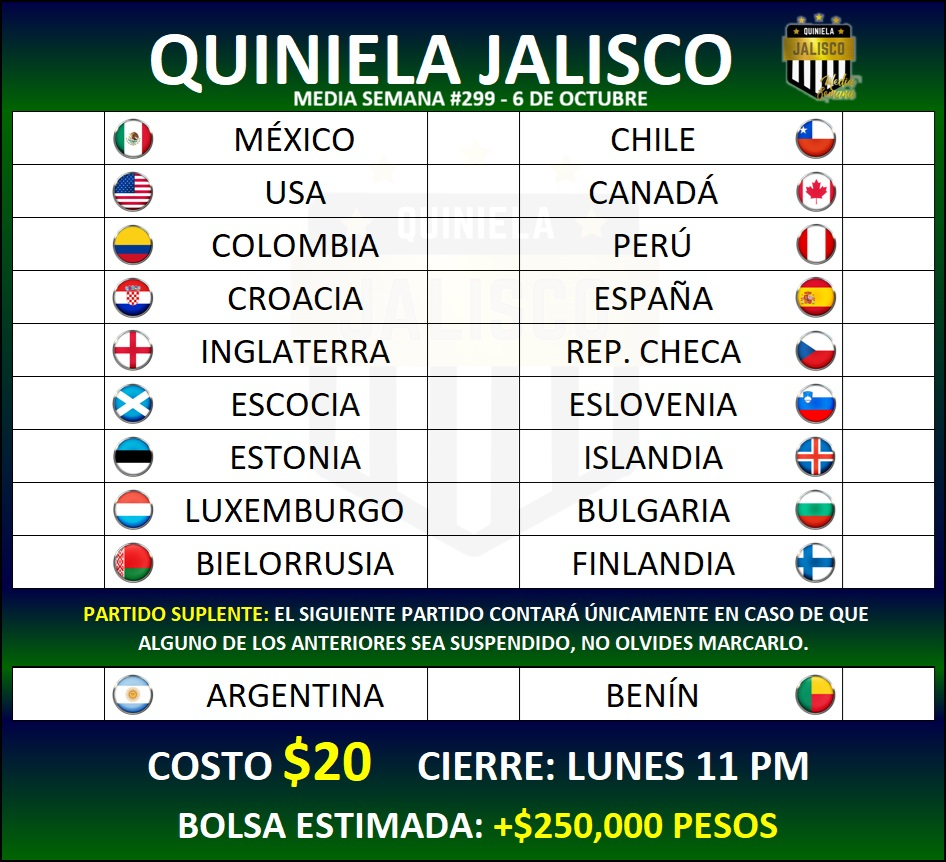
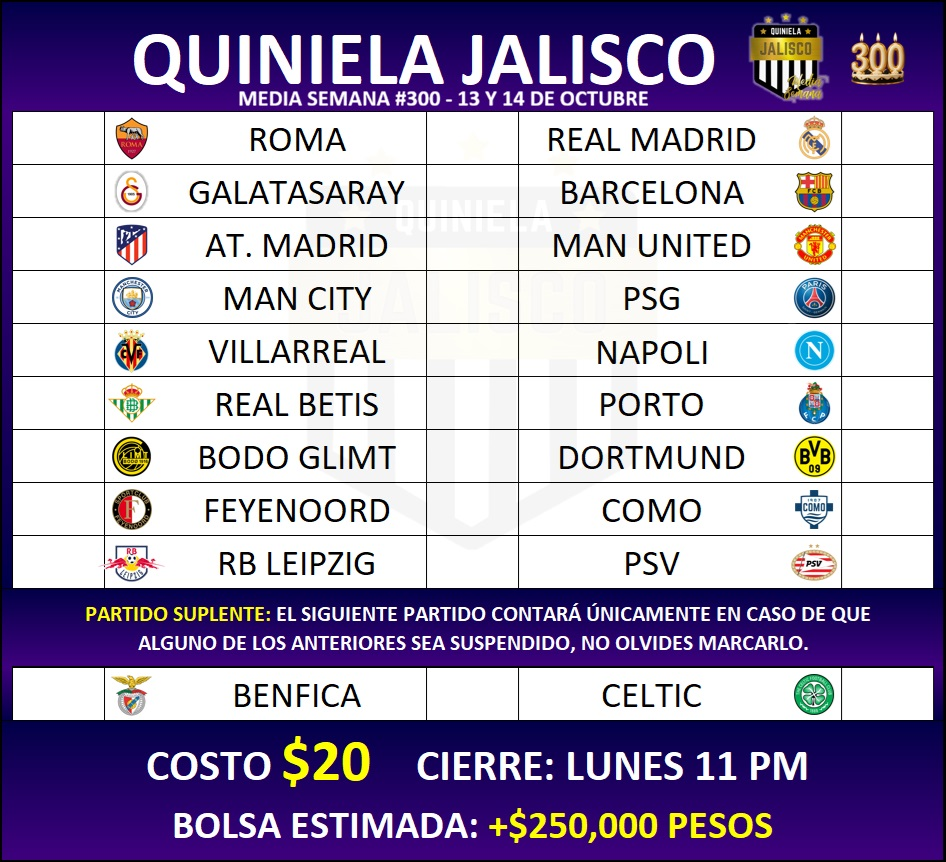
fix: update background gradient colors in stylesmSusp.css

diff --git a/MediaSemana/stylesmSusp.css b/MediaSemana/stylesmSusp.css
@@ -94,8 +94,8 @@ body{
     margin-top: 9%;
     border: solid 1px black;
     border-radius: 0 0 14px 14px;
-    background: -webkit-linear-gradient(0.49turn, rgb(0,58,30) -7%, rgb(0 6 82) 80%);
-    background: linear-gradient(0.49turn, rgb(0,58,30) -7%, rgb(0 6 82) 80%);
+    background: -webkit-linear-gradient(0.49turn, rgb(38,0,105) -7%, rgb(0 6 82) 80%);
+    background: linear-gradient(0.49turn, rgb(38,0,105) -7%, rgb(0 6 82) 80%);
 }
 
 .text-lg{
